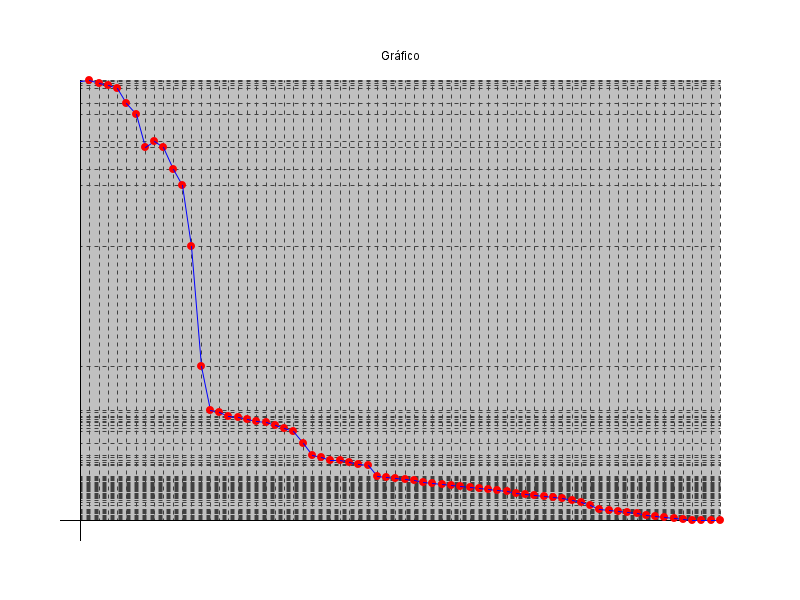
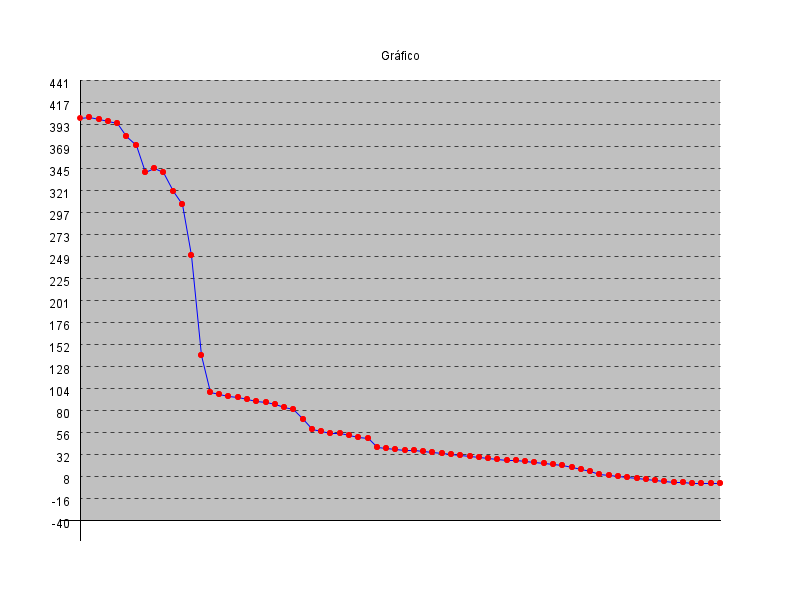
atualizacao grid e label
mudanca no plot

diff --git a/src/report/PlotGraphics.java b/src/report/PlotGraphics.java
@@ -35,6 +35,173 @@ public class PlotGraphics {
     private String title;
     private float margin;
 
+    public static void main(String[] args){
+        double[] data = new double[]{400, 401, 398, 396, 394, 380, 370, 340, 345, 340, 320, 305, 250, 140, 100, 98, 95,
+                94, 92, 90, 89, 87, 84, 81, 70, 59, 57, 55, 55, 53, 51, 50, 40, 39, 38, 37, 36, 35, 34, 33, 32, 31, 30, 29, 28,
+                27, 26, 25, 24, 23, 22, 21, 20, 18, 16, 14, 10, 9, 8, 7,6, 5, 4, 3, 2, 1, 0, 0, 0, 0};
+        PlotGraphics pg = new PlotGraphics(800,600,90,"eixoX", "eixoY","Gráfico", data);
+        pg.plot();
+        JFrame f = new JFrame("Graphic");
+        f.setBounds(10,10,pg.getW()+4,pg.getH()+15);
+        f.setDefaultCloseOperation(JFrame.EXIT_ON_CLOSE);
+        JLabel l = new JLabel();
+        l.setIcon(new ImageIcon(pg.getPlot()));
+        f.add(l);
+        f.setVisible(true);
+        pg.saveImage("test");
+    }
+
+    private double getMaxValue() {
+        double max = Double.MIN_VALUE;
+        for (int i = 0; i < data.length; i++) {
+            if (data[i] > max) {
+                max = data[i];
+            }
+        }
+        return max;
+    }
+
+    private double getMinValue() {
+        double min = Double.MAX_VALUE;
+        for (int i = 0; i < data.length; i++) {
+            if (data[i] < min) {
+                min = data[i];
+            }
+        }
+        return min;
+    }
+
+    private int calculateBorder(){
+        int max = Math.max(getW(), getH());
+        float p = margin/100.0f;
+        return Math.round(max*(1.0f-p));
+    }
+
+    public void plot(){
+        int border = calculateBorder();
+        Graphics2D render = (Graphics2D) plot.getGraphics();
+        drawBackground(border, render);
+        drawGrid(border, render);
+        drawTitle(border, render);
+        drawAxis(border, render);
+        plotData(border, render);
+    }
+
+    private void drawBackground(int border, Graphics2D render){
+        render.setRenderingHint(RenderingHints.KEY_ANTIALIASING, RenderingHints.VALUE_ANTIALIAS_ON);
+        render.setColor(Color.lightGray);
+        render.fillRect(border, border, w-2*border, h-2*border);
+    }
+
+    private void drawGrid(int border, Graphics2D render){
+        //salva a linha no estilo continuo
+        Stroke oldStroke = render.getStroke();
+        //muda o estilo da linha para pontilhada
+        float[] dash = {2f, 0f, 2f};
+        BasicStroke bs = new BasicStroke(1, BasicStroke.CAP_BUTT, BasicStroke.JOIN_ROUND, 1.0f, dash, 2f);
+        render.setStroke(bs);
+
+        int lineSpace = Math.round(Math.max(w , h) - border * 0.01f);
+
+        int tamV = h-border-border;
+        int inc = tamV/20;
+
+        double sizey = u.yend - u.yini;
+        double incy = sizey/20.0;
+
+        double y = u.yend;
+        for(int j = 0; j <= tamV; j+=inc, y-=incy){
+            render.setColor(Color.darkGray);
+            render.drawLine(border, border+j, w-border, border+j);
+
+            render.setColor(Color.BLACK);
+            FontMetrics metrics = render.getFontMetrics();
+            yLabel = Math.round(y) + "";
+            int labelWidthy = metrics.stringWidth(yLabel);
+            render.drawString(yLabel,  border - labelWidthy - 10, border + j + metrics.getHeight() / 2);
+        }
+//
+//        for (int i = 0; i < data.length; i++){
+//            //seleciona a cor cinza escura
+//            render.setColor(Color.darkGray);
+//            //desenha linhas verticais
+//            render.drawLine(u.mapX(i), u.pyend, u.mapX(i), u.pyini);
+//            //desenha linhas horizontais
+//            render.drawLine(u.pxini, u.mapY(data[i]), u.pxend, u.mapY(data[i]));
+//
+//            //mudando a cor para preto
+//            render.setColor(Color.BLACK);
+//            FontMetrics metrics = render.getFontMetrics();
+//      yLabel = Math.round(data[i]) + "";
+////            int labelWidthy = metrics.stringWidth(yLabel);
+////            render.drawString(yLabel,  u.pxini - labelWidthy - 10, u.mapY(data[i]) + metrics.getHeight() / 2);
+//            //cria label eixo X com as posições do array e salva o tamanho da label
+//            xLabel = Math.round(i) + "";
+//            int labelWidthx = metrics.stringWidth(xLabel);
+//            render.drawString(xLabel, u.mapX(i) - labelWidthx / 2, u.pyend + metrics.getHeight() + border-Math.round(0.75f*border));
+//
+//            //cria label eixo Y com os valores do array e salva o tamanho da label
+//            yLabel = Math.round(data[i]) + "";
+//            int labelWidthy = metrics.stringWidth(yLabel);
+//            render.drawString(yLabel,  u.pxini - labelWidthy - 10, u.mapY(data[i]) + metrics.getHeight() / 2);
+//        }
+        //retorna a linha para o estilo continuo
+        render.setStroke(oldStroke);
+    }
+
+    private void drawTitle(int border, Graphics2D render){
+        render.setColor(Color.BLACK);
+        render.drawString(title, w/2 - (render.getFontMetrics().stringWidth(title)/2) ,  calculateBorder()-20);
+    }
+
+    private void drawAxis(int border, Graphics2D render){
+
+        render.setColor(Color.BLACK);
+        render.drawLine(border-Math.round(0.25f*border), h-border, w-border, h-border); // eixo x
+        render.drawLine(border, h-border+Math.round(0.25f*border), border, border); // eixo Y
+    }
+
+    private void plotData(int border, Graphics2D render){
+
+        int bulletDiameter = Math.round(Math.min(w , h) * 0.01f);
+        int prevX = u.mapX(0);
+        int prevY = u.mapY(data[0]);
+
+        for (int i = 1; i < data.length; i++){
+            int x = u.mapX(i);
+            int y = u.mapY(data[i]);
+
+            render.setColor(Color.BLUE);
+            render.drawLine(prevX,prevY,x,y);
+            render.setColor(Color.RED);
+            render.fillOval(x - bulletDiameter/2,  y - bulletDiameter/2, bulletDiameter, bulletDiameter);
+            prevX = x;
+            prevY = y;
+        }
+
+        for (int i = 0; i < data.length; i++){
+            int x = u.mapX(i);
+            int y = u.mapY(data[i]);
+
+            render.setColor(Color.RED);
+            render.fillOval(x - bulletDiameter/2,  y - bulletDiameter/2, bulletDiameter, bulletDiameter);
+        }
+    }
+
+    private Universe generateU(){
+        if(data != null) {
+            double xmin = 0;
+            double xmax = data.length-1;
+            double ymin = getMinValue();
+            double ymax = getMaxValue();
+            double tmp = ymax-ymin;
+            ymax+= tmp * 0.1;
+            ymin-= tmp * 0.1;
+            return new Universe(xmin, xmax, ymin, ymax, this);
+        }
+        return null;
+    }
+
     /**
      * Construtor de {@code PlotGraphics} com todos os parâmetros necessários para a plotagem de um gráfico.
      * <p>Uma atenção especial ao parâmetro {@code margin}, pois este será usado como uma escala de porcentagem
@@ -105,96 +272,6 @@ public class PlotGraphics {
                 plot.setRGB(i,j,white);
     }
 
-    private double getMaxValue() {
-        double max = Double.MIN_VALUE;
-        for (int i = 0; i < data.length; i++) {
-            if (data[i] > max) {
-                max = data[i];
-            }
-        }
-        return max;
-    }
-
-    private double getMinValue() {
-        double min = Double.MAX_VALUE;
-        for (int i = 0; i < data.length; i++) {
-            if (data[i] < min) {
-                min = data[i];
-            }
-        }
-        return min;
-    }
-
-    private int calculateBorder(){
-        int max = Math.max(getW(), getH());
-        float p = margin/100.0f;
-        return Math.round(max*(1.0f-p));
-    }
-
-    public void plot(){
-        int border = calculateBorder();
-        Graphics2D render = (Graphics2D) plot.getGraphics();
-        drawBackground(border, render);
-        drawGrid(border, render);
-        drawTitle(border, render);
-        drawAxis(border, render);
-        plotData(border, render);
-    }
-
-    private void drawBackground(int border, Graphics2D render){
-        render.setRenderingHint(RenderingHints.KEY_ANTIALIASING, RenderingHints.VALUE_ANTIALIAS_ON);
-        render.setColor(Color.lightGray);
-        render.fillRect(border, border, w-2*border, h-2*border);
-    }
-
-    private void drawGrid(int border, Graphics2D render){
-
-        Stroke oldStroke = render.getStroke();
-        float[] dash = {2f, 0f, 2f};
-        BasicStroke bs = new BasicStroke(1, BasicStroke.CAP_BUTT, BasicStroke.JOIN_ROUND, 1.0f, dash, 2f);
-        render.setStroke(bs);
-
-        int lineSpace = Math.round(Math.max(w , h) - border * 0.1f);
-
-        for (int i = 0; i < data.length; i++){
-            render.setColor(Color.darkGray);
-            render.drawLine(u.mapX(i), u.pyend, u.mapX(i), u.pyini);
-            render.drawLine(u.pxini, u.mapY(data[i]), u.pxend, u.mapY(data[i]));
-        }
-        render.setStroke(oldStroke);
-    }
-
-    private void drawTitle(int border, Graphics2D render){
-        render.setColor(Color.BLACK);
-        render.drawString(title, w/2 - (render.getFontMetrics().stringWidth(title)/2) ,  calculateBorder()-20);
-    }
-
-    private void drawAxis(int border, Graphics2D render){
-
-        render.setColor(Color.BLACK);
-        render.drawLine(border-Math.round(0.25f*border), h-border, w-border, h-border); // eixo x
-        render.drawLine(border, h-border+Math.round(0.25f*border), border, border); // eixo Y
-    }
-
-    private void plotData(int border, Graphics2D render){
-
-        int bulletDiameter = Math.round(Math.max(w , h) * 0.01f);
-        int prevX = u.mapX(0);
-        int prevY = u.mapY(data[0]);
-
-        for (int i = 1; i < data.length; i++){
-            int x = u.mapX(i);
-            int y = u.mapY(data[i]);
-
-            render.setColor(Color.BLUE);
-            render.drawLine(prevX,prevY,x,y);
-            render.setColor(Color.RED);
-            render.fillOval(x - bulletDiameter/2,  y - bulletDiameter/2, bulletDiameter, bulletDiameter);
-            prevX = x;
-            prevY = y;
-        }
-    }
-
     /**
      * Método de {@code PlotGraphics} que insere um novo {@code Array} para ser dimensionado e plotado.
      * @param data o {@code Array} para ser plotado.
@@ -202,34 +279,6 @@ public class PlotGraphics {
     public void setData(double[] data){
         this.data = data;
         this.u = generateU();
-    }
-
-    private Universe generateU(){
-        if(data != null) {
-            double xmin = 0;
-            double xmax = data.length-1;
-            double ymin = getMinValue();
-            double ymax = getMaxValue();
-            return new Universe(xmin, xmax, ymin, ymax, this);
-        }
-        return null;
-    }
-
-    public static void main(String[] args){
-        double[] data = new double[]{400, 401, 398, 396, 394, 380, 370, 340, 345, 340, 320, 305, 250, 140, 100, 98, 95,
-        94, 92, 90, 89, 87, 84, 81, 70, 59, 57, 55, 55, 53, 51, 50, 40, 39, 38, 37, 36, 35, 34, 33, 32, 31, 30, 29, 28,
-        27, 26, 25, 24, 23, 22, 21, 20, 18, 16, 14, 10, 9, 8, 7,6, 5, 4, 3, 2, 1, 0, 0, 0, 0};
-        PlotGraphics pg = new PlotGraphics(800,600,90,"eixoX", "eixoY","Gráfico", data);
-        pg.plot();
-        JFrame f = new JFrame("Graphic");
-        f.setBounds(10,10,pg.getW()+4,pg.getH()+15);
-        f.setDefaultCloseOperation(JFrame.EXIT_ON_CLOSE);
-        JLabel l = new JLabel();
-        l.setIcon(new ImageIcon(pg.getPlot()));
-        f.add(l);
-        f.setVisible(true);
-        pg.saveImage("test");
-
     }
 
     /**
@@ -361,30 +410,14 @@ public class PlotGraphics {
         this.plot = plot;
     }
 
-//                if ((double) auxList.size() % ofx == 0) {
-//                    xLabel = Math.round(w) + "";
-//                } else {
-//                    xLabel = Math.round(w * 100.0) / 100.0 + "";
-//                }
-//                FontMetrics metrics = render.getFontMetrics();
-//                int labelWidthx = metrics.stringWidth(xLabel);
-//
-//                render.setColor(Color.BLACK);
-//                render.drawString(xLabel, (int) pxr - labelWidthx / 2, (int) y1 - (int) margem() + metrics.getHeight() + 5);
-
-//                yLabel = Math.round(y * 100.00) / 100.00 + "";
-//
-//                FontMetrics metrics = render.getFontMetrics();
-//                int labelWidthy = metrics.stringWidth(yLabel);
-//
-//                render.setColor(Color.BLACK);
-//                render.drawString(yLabel, (int) x0 + (int) margem() - labelWidthy - 10, (int) pyr + metrics.getHeight() / 2);
-    
-    public void saveImage(String nameGraph) {
+    /**
+     * Método de {@code PlotGraphics} que salva a imagem criada e adiciona .PNG ao arquivo
+     * @param nameGraphic nome do arquivo
+     */
+    public void saveImage(String nameGraphic) {
         try {
-            ImageIO.write(plot, "PNG", new File(nameGraph + ".png"));
+            ImageIO.write(plot, "PNG", new File(nameGraphic + ".png"));
         } catch (IOException ioe) {
-            ioe.printStackTrace();
         }
     }
 
